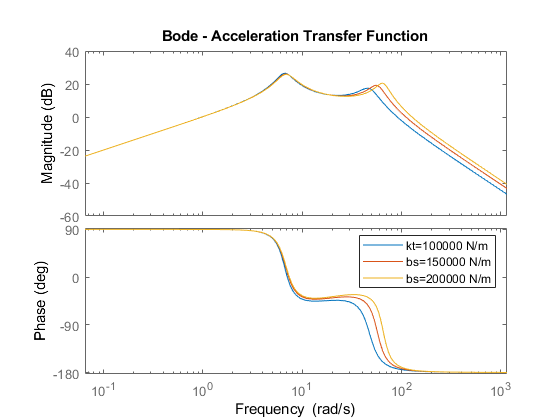
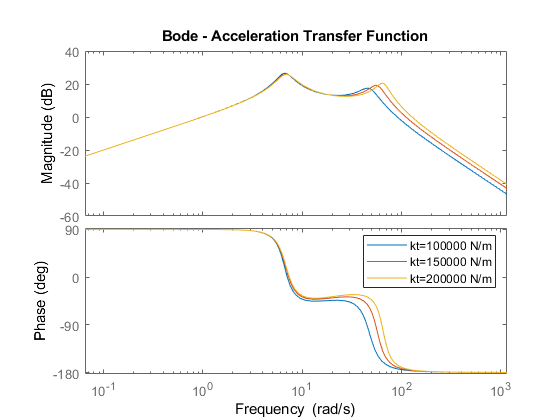
feat: added bandwidth calculation

Changed region(s): [[0.6982, 0.5571, 0.8804, 0.681], [0.6375, 0.5571, 0.6679, 0.681]]

diff --git a/Q2c.m b/Q2c.m
@@ -20,21 +20,21 @@ for ks = ks_list
     title('Bode - Acceleration Transfer Function');
     hold on;
     [gm, pm] = margin(Ta);
-    gm_pm = [gm_pm; gm, pm];
+    gm_pm = [gm_pm; gm, pm, bandwidth(Ta, -3)];
     
     figure(2);
     bode(Tr, wn);
     title('Bode - Rattle Space Transfer Function');
     hold on;
     [gm, pm] = margin(Tr);
-    gm_pm = [gm_pm; gm, pm];
+    gm_pm = [gm_pm; gm, pm, bandwidth(Tr, -3)];
     
     figure(3);
     bode(Tt, wn);
     title('Bode - Tyre Deflection Transfer Function');
     hold on;
     [gm, pm] = margin(Tt);
-    gm_pm = [gm_pm; gm, pm];
+    gm_pm = [gm_pm; gm, pm, bandwidth(Tt, -3)];
     
 end
 

diff --git a/Q2e.m b/Q2e.m
@@ -37,6 +37,6 @@ for kt = kt_list
     gm_pm = [gm_pm; gm, pm];
 end
 
-figure(1); legend({'kt=100000 N/m', 'bs=150000 N/m', 'bs=200000 N/m'});
-figure(2); legend({'kt=100000 N/m', 'bs=150000 N/m', 'bs=200000 N/m'});
-figure(3); legend({'kt=100000 N/m', 'bs=150000 N/m', 'bs=200000 N/m'});
+figure(1); legend({'kt=100000 N/m', 'kt=150000 N/m', 'kt=200000 N/m'});
+figure(2); legend({'kt=100000 N/m', 'kt=150000 N/m', 'kt=200000 N/m'});
+figure(3); legend({'kt=100000 N/m', 'kt=150000 N/m', 'kt=200000 N/m'});
